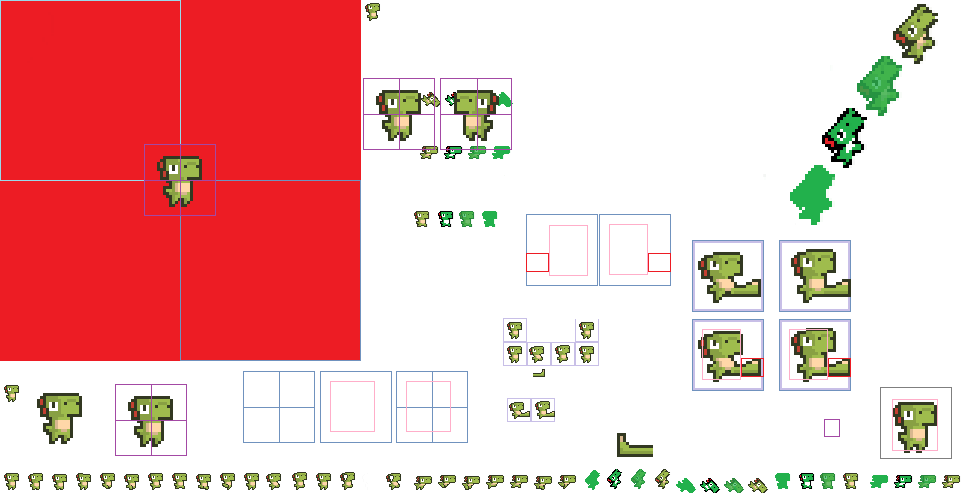
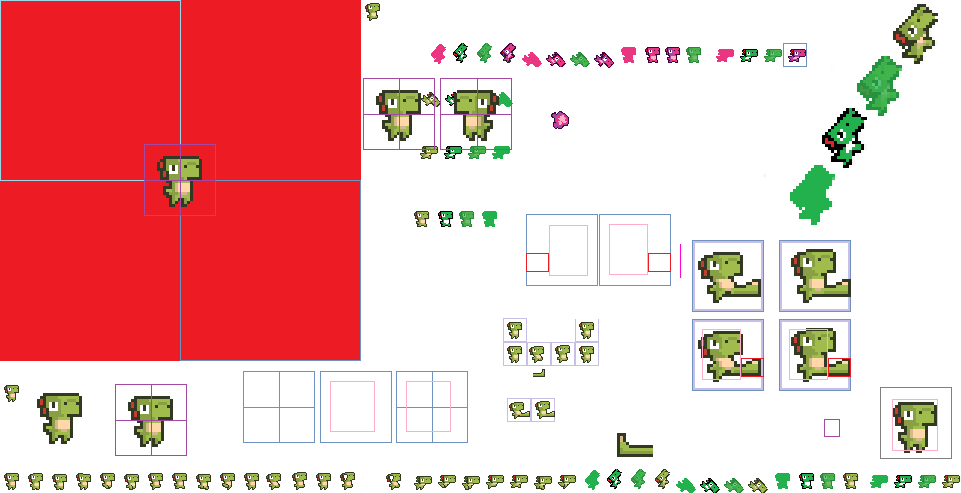
Player dash ability made

Changed region(s): [[0.437, 0.0913, 0.8429, 0.1521], [0.5619, 0.213, 0.5931, 0.2738]]

diff --git a/Coursework/CMP105App/ScreenLoader.cpp b/Coursework/CMP105App/ScreenLoader.cpp
@@ -28,7 +28,7 @@ void ScreenLoader::create(std::string screen)
 {
 	
 
-	sf::Vector2u mapDimensions{ 40, 8 };
+	sf::Vector2u mapDimensions{ 40, 11 };
 
 	m_tileSet = createTileset(20, 9, 18,1,4, false);
 	
@@ -169,6 +169,7 @@ void ScreenLoader::loadEntities(std::string screen, std::string entityType)
 
 		int i = 0;
 		std::vector<std::string> entityData;
+
 		while (std::getline(lineStream, tile, ','))
 		{
 	
@@ -178,6 +179,8 @@ void ScreenLoader::loadEntities(std::string screen, std::string entityType)
 				entityData.push_back(tile);
 			}
 		}
+
+
 		if (!entityData.empty())
 		{
 
@@ -193,9 +196,7 @@ void ScreenLoader::loadEntities(std::string screen, std::string entityType)
 					newEnemy->m_idle.addFrame({ { i * 24, 0 }, { 24, 24} });
 
 				newEnemy->m_idle.setFrameSpeed(1.f / 4.f);
-				
-				std::cout << " Created Enemy " << entityData[3] << "at " << newEnemy->getPosition().x << "," << newEnemy->getPosition().y <<"\n";
-
+		
 				m_enemies.push_back(newEnemy);
 			}
 
@@ -204,8 +205,7 @@ void ScreenLoader::loadEntities(std::string screen, std::string entityType)
 				checkPoint* newCheckPoint = new checkPoint({ std::stof(entityData[1]) , std::stof(entityData[2]) });
 				newCheckPoint->setFillColor(sf::Color::Yellow);
 				newCheckPoint->setSize({ 72,72 });
-				std::cout << "CheckPoint at " << newCheckPoint->getPosition().x << "," << newCheckPoint->getPosition().y << "\n";
-
+		
 				m_checkPoints.push_back(newCheckPoint);
 			}
 			else if (entityType == "Consumable")
@@ -216,10 +216,18 @@ void ScreenLoader::loadEntities(std::string screen, std::string entityType)
 					newHealthPickup->setPosition({ std::stof(entityData[3]) , std::stof(entityData[4]) });
 					newHealthPickup->setFillColor(sf::Color::Red);
 					newHealthPickup->setSize({ 72,72 });
-					std::cout << "consumable " << entityData[1]  << " " << entityData[2] << " at " << newHealthPickup->getPosition().x << ", " << newHealthPickup->getPosition().y << "\n";
-
-
+		
 					m_consumables.push_back(newHealthPickup);
+				}
+				else if (entityData[1] == "power")
+				{
+					consumable* newPowerUp = new consumable('p', entityData[2]);
+					newPowerUp->setPosition({ std::stof(entityData[3]) , std::stof(entityData[4]) });
+					newPowerUp->setFillColor(sf::Color(211,3,252));
+					newPowerUp->setSize({ 72,72 });
+					newPowerUp->setCollisionBox({ {0,0} ,{72,72} });
+
+					m_consumables.push_back(newPowerUp);
 				}
 				
 			}
@@ -233,10 +241,7 @@ void ScreenLoader::loadEntities(std::string screen, std::string entityType)
 					newDistructable->setPosition({ std::stof(entityData[3]), std::stof(entityData[4]) });
 					newDistructable->setFillColor(sf::Color::Green);
 					newDistructable->setSize({ 72,72 });
-					std::cout << "obstacle " << entityData[1] << " " << entityData[2] << " at " << newDistructable->getPosition().x << ", " << newDistructable->getPosition().y << "\n";
-
-
-
+				
 					m_destructables.push_back(newDistructable);
 				}
 			

diff --git a/Coursework/CMP105App/Player.cpp b/Coursework/CMP105App/Player.cpp
@@ -63,8 +63,7 @@ Player::Player()
 	m_isGrounded = true;
 	m_kickLevel = 1;
 	m_fireLevel = 1;
-	m_abilities = { {"dash", true} };
-
+	
 }
 
 void Player::handleInput(float dt)
@@ -86,12 +85,7 @@ void Player::handleInput(float dt)
 		m_isGrounded = false;	// can't be jumping if we're in the air
 		m_audio->playSoundbyName("jump");
 	}
-	else if (m_input->isPressed(sf::Keyboard::Scancode::Space) && !m_isGrounded && m_canDoubleJump && !m_hasDoubleJumped)
-	{
-		m_velocity.y = - JUMP_FORCE;
-		m_hasDoubleJumped = true;
-		m_audio->playSoundbyName("jump");
-	}
+
 	if (m_input->isKeyDown(sf::Keyboard::Scancode::R))	// Reset (for debugging)
 	{
 		reset();
@@ -110,25 +104,37 @@ void Player::handleInput(float dt)
 		newFire->setTexture(&m_fireballTexture);
 		m_projectiles.push_back(newFire);
 	}
-	if (m_abilities["dash"] && m_input->isPressed(sf::Keyboard::Scancode::L))
+	if (m_abilities["dash"] && m_numberOfDashes >0  && m_input->isPressed(sf::Keyboard::Scancode::L))
 	{
 
-		
 
-		if (m_input->isPressed(sf::Keyboard::Scancode::W))
+		if (m_input->isPressed(sf::Keyboard::Scancode::A))
 		{
 
-			inputDir.y = -1;
+			inputDir.x = -1;
+		}
+
+		else if (m_input->isPressed(sf::Keyboard::Scancode::D))
+		{
+
+			inputDir.x = 1;
+		}
+
+
+		if (m_input->isKeyDown(sf::Keyboard::Scancode::W))
+		{
+
+ 			inputDir.y = -1;
 		}
 		
-		else if (m_input->isPressed(sf::Keyboard::Scancode::S))
+		else if (m_input->isKeyDown(sf::Keyboard::Scancode::S))
 		{
 
 			inputDir.y = 1;
 		}
 		else
 		{
-			if (inputDir.x == 0)
+			if (inputDir.x == 0 && inputDir.y == 0)
 			{
 				switch (m_currAnim->getFlipped())
 				{
@@ -140,10 +146,11 @@ void Player::handleInput(float dt)
 		//	Utils::printMsg("no w/d", MessageType::DEBUG);
 			inputDir.y = 0;
 		}
-
+	
 		m_velocity += {inputDir.x * DASH_SPEED, inputDir.y * DASH_SPEED };
-		//std::string str = std::to_string(inputDir.x) + "," + std::to_string(inputDir.x) + " -> " + std::to_string(m_accel.x) + "," + std::to_string(m_accel.y);
-		//Utils::printMsg(str, MessageType::SUCCESS);
+		m_numberOfDashes -= 1;
+		std::string str = std::to_string(inputDir.x) + "," + std::to_string(inputDir.y) + " -> " + std::to_string(m_velocity.x) + "," + std::to_string(m_velocity.y);
+		Utils::printMsg(str, MessageType::SUCCESS);
 	}
 	else
 	{
@@ -277,7 +284,8 @@ void Player::collisionResponse(GameObject& collider)
 			move({ 0, -overlap->size.y });
 			m_velocity.y = 0;       // Stop falling
 			m_isGrounded = true;    // Enable jumping
-			m_hasDoubleJumped = false;	// more jumping possible
+			m_numberOfDashes = 3;
+	
 		}
 		else
 		{

diff --git a/Coursework/CMP105App/Player.h b/Coursework/CMP105App/Player.h
@@ -30,8 +30,6 @@ public:
    
    
     void reset();
-    void setCanDoubleJump(bool value) { m_canDoubleJump = value; };
-    bool canDoubleJump() { return m_canDoubleJump; };
     void setAudio(AudioManager* audio) { m_audio = audio; };
     bool isAttacking() { return m_isKicking; };
 
@@ -47,6 +45,12 @@ public:
     GameObject m_meleeHitBox;
 
     std::vector<fireBlast*> m_projectiles;
+
+    void addAbility(std::string ability) 
+    { 
+        m_abilities.insert({ ability, true }); 
+        m_abilities[ability] = true;
+    };
 
 private:
     sf::Texture m_dinoTexture;
@@ -74,9 +78,10 @@ private:
     int m_kickLevel = 1;
     int m_fireLevel = 1;
 
-    bool m_canDoubleJump;
-    bool m_hasDoubleJumped;
-    bool m_isKicking = false;
+    bool m_isKicking;
+ 
+    int m_numberOfDashes;
+
 
     sf::FloatRect m_normalHurtBox;
 

diff --git a/Coursework/CMP105App/Main.cpp b/Coursework/CMP105App/Main.cpp
@@ -78,7 +78,7 @@ int main()
 {
 
 	//Create the window
-	//sf::RenderWindow window(sf::VideoMode({ 432, 432 }), "Dino Handyman", sf::State::Fullscreen);
+	//sf::RenderWindow window(sf::VideoMode({ 1296, 864 }), "Dino Handyman", sf::State::Fullscreen);
 	sf::RenderWindow window(sf::VideoMode({ 1296, 864 }), "Dino Handyman");
 	
 	window.setVerticalSyncEnabled(true);

diff --git a/Coursework/CMP105App/consumable.h b/Coursework/CMP105App/consumable.h
@@ -38,10 +38,13 @@ public:
 	{
 		switch (m_id)
 		{
-		case 'h':
-			player->healAndDeal(std::stof(m_gift));
-			break;
-		default: break;
+			case 'h':
+				player->healAndDeal(std::stof(m_gift));
+				break;
+			case 'p':
+				player->addAbility(m_gift);
+				break;
+			default: break;
 		}
 
 		collisionResponse();

diff --git a/Coursework/CMP105App/obstacle.h b/Coursework/CMP105App/obstacle.h
@@ -1,0 +1,19 @@
+#pragma once
+#include "Framework/GameObject.h"
+class obstacle :
+    public GameObject
+{
+    obstacle(char id, std::string effect)
+    {
+        m_id = id;
+        m_effect = effect;
+
+    };
+
+    
+
+
+    char m_id;
+    std::string m_effect;
+};
+

diff --git a/Coursework/CMP105App/enemyLevel.cpp b/Coursework/CMP105App/enemyLevel.cpp
@@ -105,7 +105,10 @@ void enemyLevel::update(float dt)
 
 		for (auto c : m_screenLoader.m_consumables)
 		{
-			
+			if (c->isAlive() && Collision::checkBoundingBox(m_player, *c))
+			{
+				c->consume(&m_player);
+			}
 		}
 
 	}

diff --git a/Coursework/CMP105App/obstacle.cpp b/Coursework/CMP105App/obstacle.cpp
@@ -1,0 +1,1 @@
+#include "obstacle.h"
